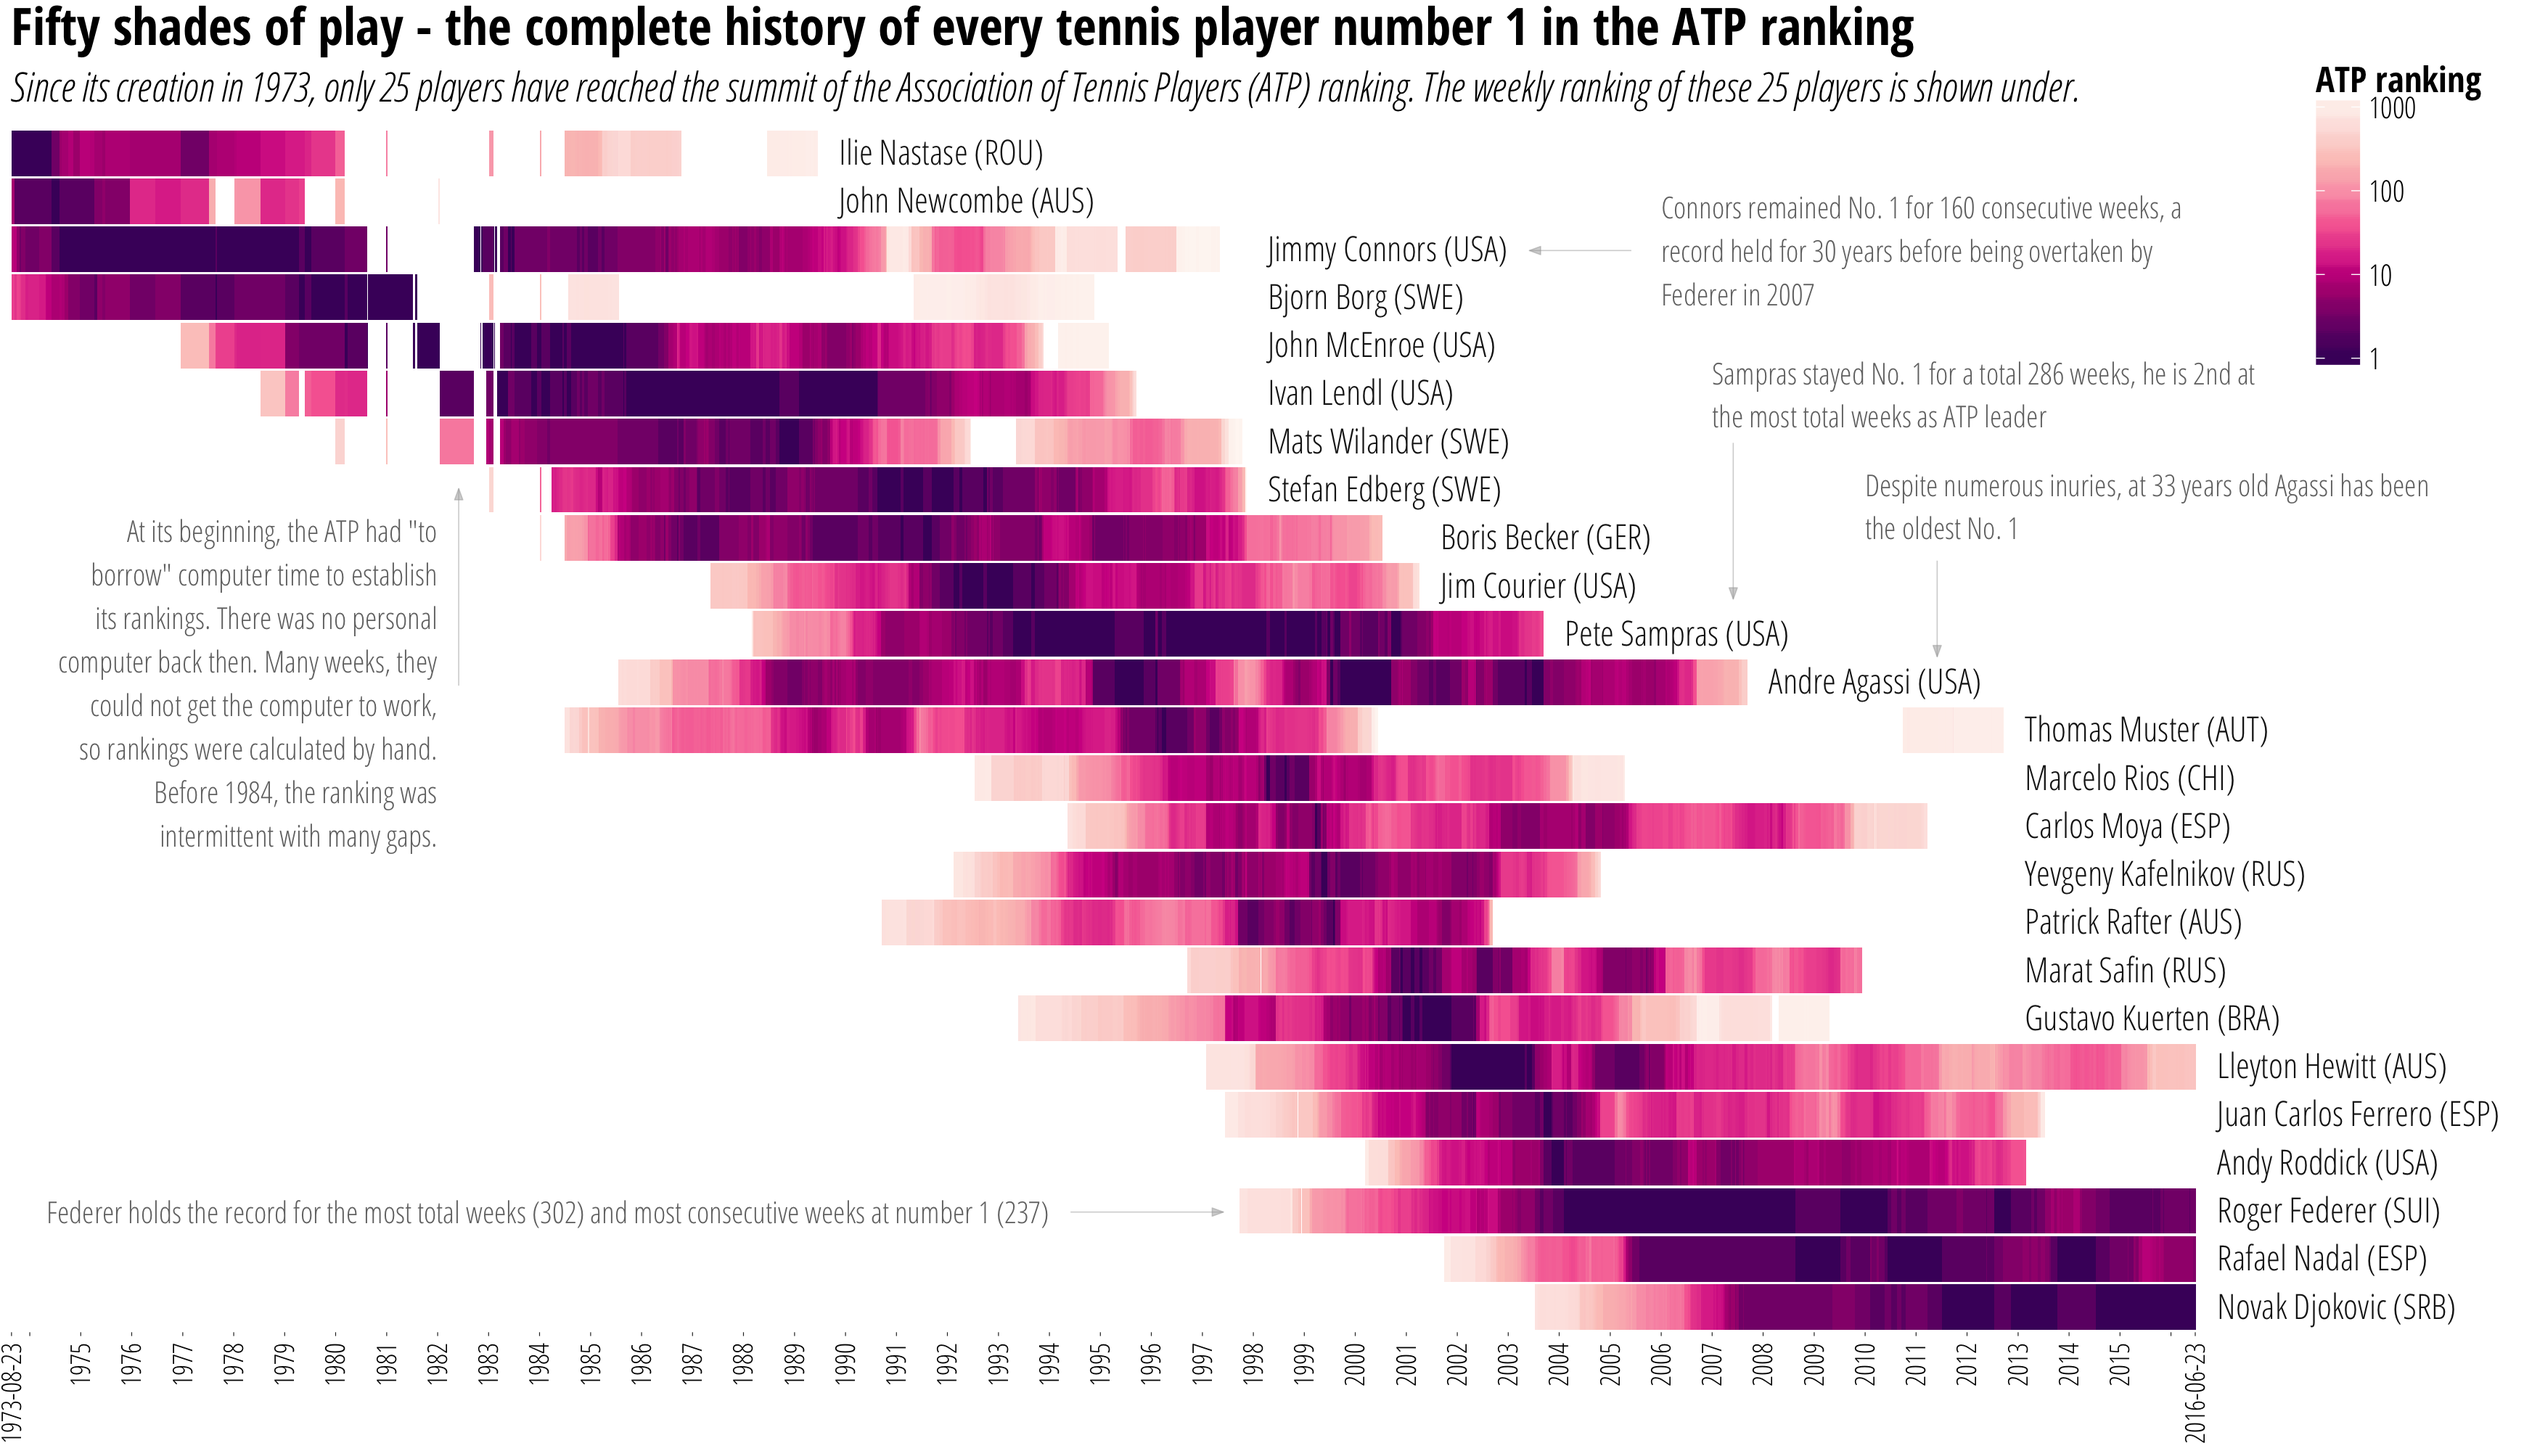
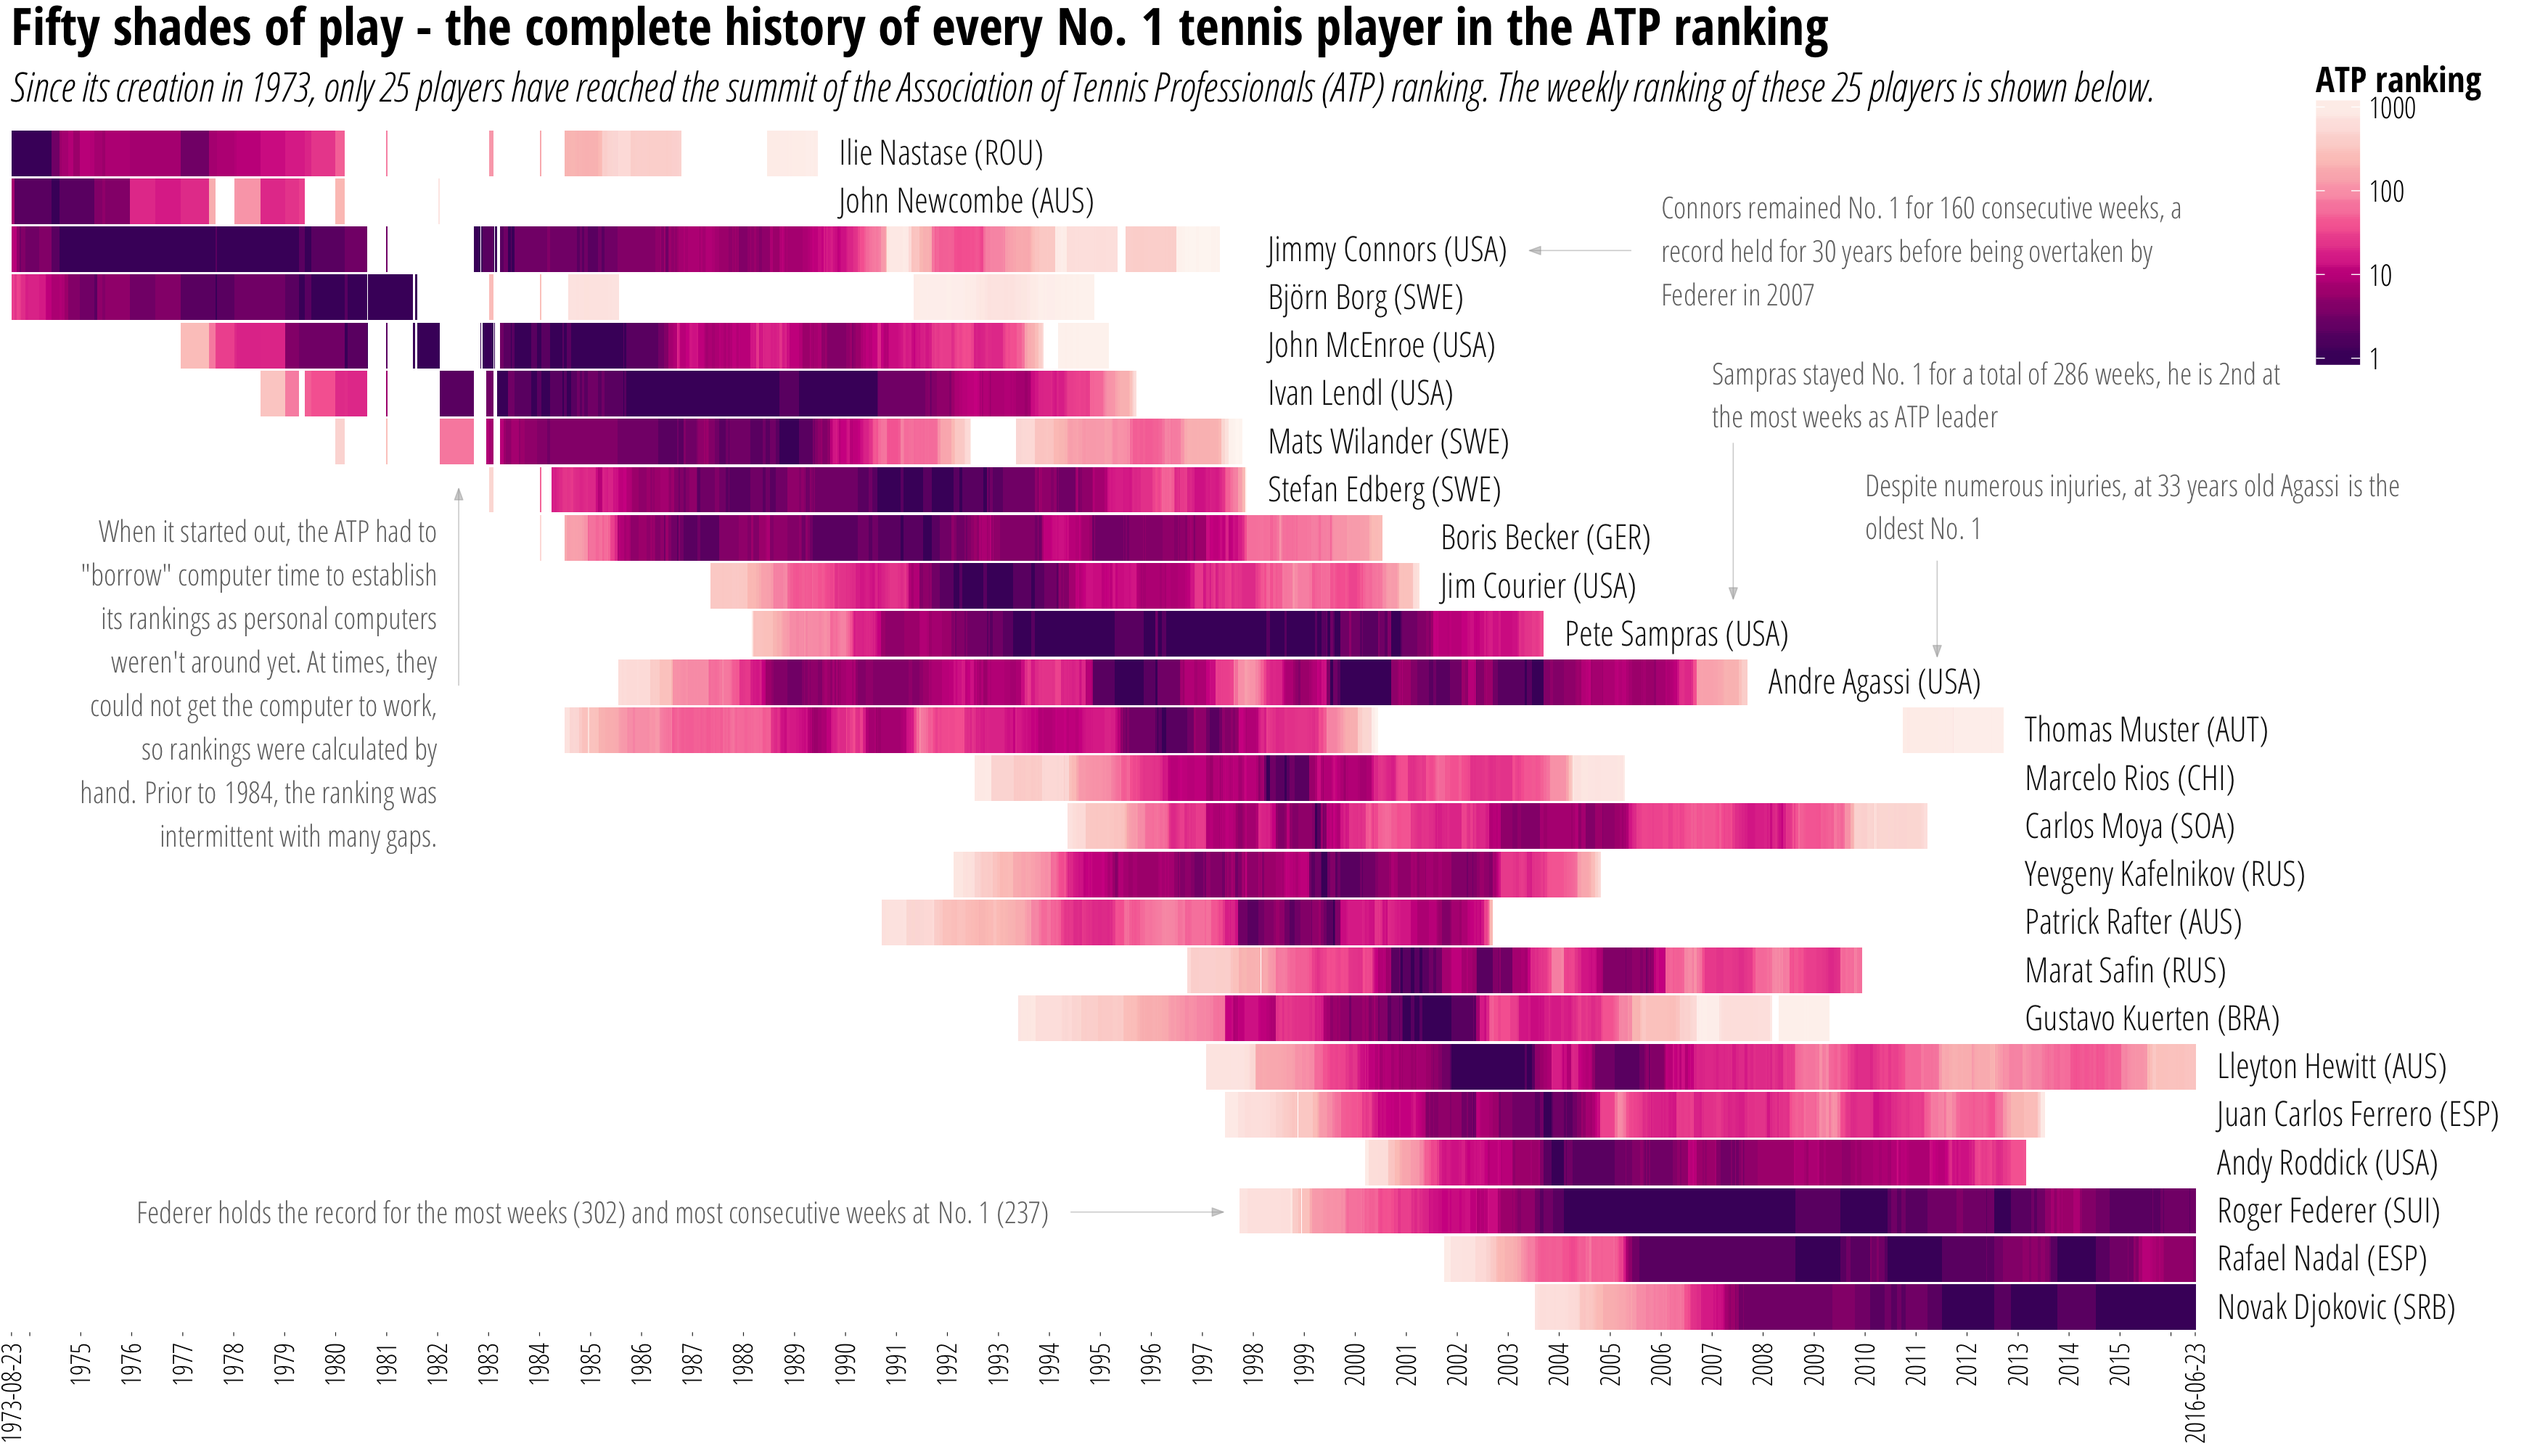
Heatmap code even more messy and with more parameters to deal with various languages quirks

diff --git a/02_plot_heatmap_n1ATP.html b/02_plot_heatmap_n1ATP.html
@@ -184,10 +184,10 @@ if(length(naidx)&gt;0) {
 </ul>
 <pre class="r"><code>## Helpers and settings
 
-htheme &lt;- function(base_family = &quot;OpenSans-CondensedLight&quot;) {
+htheme &lt;- function(base_family = &quot;OpenSans-CondensedLight&quot;, subtitle.size = 15) {
   swi_theme(y_gridlines = F, base_family = base_family) + 
     theme(
-      plot.subtitle = element_text(size=15, margin=margin(b = 10)),
+      plot.subtitle = element_text(size=subtitle.size, margin=margin(b = 10)),
       plot.title = element_text(size = 19, margin=margin(b = 10)),
       axis.ticks.length = unit(1.4, &quot;pt&quot;),
       axis.ticks.y = element_blank(),
@@ -237,7 +237,7 @@ player.lab.aligned$key &lt;- gsub(&quot; &quot;, &quot;\\.&quot;, player.lab.ali
 years &lt;- unique(format(unique(n1r$dates), &quot;%Y&quot;))
 
 ## PLOT ##
-lang &lt;- 'EN'
+lang &lt;- 'ZH'
 
 for (lang in colnames(txt)) {
   png.outfile &lt;- paste0(&quot;heatmap_alln1ATP_&quot;, lang, &quot;.png&quot;)
@@ -250,18 +250,16 @@ for (lang in colnames(txt)) {
   
   # apply linebreaks to each text chunk
   for(i in 1:nrow(anno)) {
-    anno[i, 'txt'] &lt;- paste0(
-      strwrap(anno[i, 'txt'], width = anno[i, 'lineLength']), collapse =&quot;\n&quot;
-    )
+    anno[i, 'txt'] &lt;- paste0(strwrap(anno[i, 'txt'], width = anno[i, 'lineLength']), collapse =&quot;\n&quot;)
   }
 
   hatp &lt;- ggplot(n1r) + 
     geom_rect(
       aes(xmin = dates, xmax = dates.end, ymin = ymin, ymax = ymax, fill = lrank)) + 
-   htheme(base_family = txt[&quot;base.typeface&quot;, lang]) +
+   htheme(base_family = txt[&quot;base.typeface&quot;, lang], subtitle.size = as.numeric(txt['subtitle.size', lang])) +
     # to overwrite colour label scale legend
     scale_fill_gradientn(
-      name = &quot;ATP ranking&quot;,
+      name = txt[&quot;legend.title&quot;, lang],
       colours = rev(colorRampPalette(brewer.pal(9,&quot;RdPu&quot;))(255)),
       na.value = &quot;transparent&quot;,
       labels = as.character(c(10^0, 10^1, 10^2, 10^3))
@@ -279,7 +277,7 @@ for (lang in colnames(txt)) {
       aes(x = x, y = y, label = player), 
       hjust = 0, vjust = 0.5,
       family = txt[&quot;base.typeface&quot;, lang],
-      size = 4.5, color=&quot;#1a1a1a&quot;) +
+      size = as.numeric(txt['player.size', lang]), color=&quot;#1a1a1a&quot;) +
     labs(title = txt[&quot;main.title&quot;, lang], subtitle = txt[&quot;descr&quot;, lang]) +
     theme(
       plot.title = element_text(family = txt[&quot;title.typeface&quot;, lang]),
@@ -296,7 +294,7 @@ for (lang in colnames(txt)) {
   hatp2 &lt;- hatp + geom_text(
     data = anno, 
     aes(x = x, y = y, label = txt, hjust = hjust, vjust = vjust),
-    family = txt[&quot;base.typeface&quot;, lang], size = 3.9, color=&quot;#737373&quot;
+    family = txt[&quot;base.typeface&quot;, lang], size = as.numeric(txt['annot.size', lang]), color=&quot;#737373&quot;
   ) + geom_segment(
     data = anno, 
     aes(x = x0, xend = x1, y = y0, yend = y1),

diff --git a/heatmap_alln1ATP_ZH.html b/heatmap_alln1ATP_ZH.html
@@ -1,0 +1,106 @@
+<!DOCTYPE html>
+<html>
+<head>
+<meta charset="utf-8"/>
+
+  <link href='https://fonts.googleapis.com/css?family=Open+Sans+Condensed:300&subset=latin,cyrillic' rel='stylesheet' type='text/css'>
+<link href='https://fonts.googleapis.com/css?family=Open+Sans:400,300,600,700,800,400italic&subset=latin,cyrillic' rel='stylesheet' type='text/css'>
+<style>
+
+body, h1, h2, h3, h4, h5, h6, .descr, td, table {
+   text-rendering: optimizeLegibility;
+   font-smoothing: antialiased;
+   font-family: 'Open Sans', sans-serif;
+   background-color: white;
+   font-size: 12px;
+   margin:3px 4px 3px 5px;
+}
+
+img {
+	max-width: 100%;
+	height: auto;
+}
+
+
+#cite {
+    font-size: 0.7em; color: #B8B8B8; text-align: right; margin-top:1px; margin-right:15px; padding-bottom: 3px;
+}
+#cite a { text-decoration: none; color: #821122; }
+
+#footer {
+  font-size: 0.8em; 
+  color: #9B9B9B; 
+  padding: 0px;
+  margin-left:3%;    
+  margin-bottom:8px; 
+  max-width:80%;    
+}
+    
+.descr {
+ font-size: 0.9em;
+ color: #4d4d4d;
+ font-weight: lighter;
+ max-width:80%;
+ margin-left:3%;
+}
+
+h1 {
+   font-size:2em;
+}
+
+h2 {
+   font-size:1.65em;
+   line-height: 105%;
+   font-weight: lighter;
+   max-width:80%;
+   margin-left:3%;
+}
+
+h3 {
+   font-size:1.2em;
+   margin-left:3%;   
+   font-weight: bold;    
+}
+
+h4 {
+   font-size:1.1em;
+}
+
+h5 {
+   font-size:0.9em;
+}
+
+h6 {
+   font-size:0.8em;
+}
+
+
+a:visited {
+   color: rgb(50%, 0%, 50%);
+}
+
+
+body {
+      font-size:10pt;
+      max-width:100%;
+   }
+
+   a, a:visited {
+      text-decoration: underline;
+   }
+}
+
+</style>
+</head>
+<body style="background-color:white;">
+<html>
+  <body>
+    <div class="graphic">
+      <img src="heatmap_alln1ATP_ZH.png" width="100%"/>
+    </div>
+    <div id="cite">来源: <a href="http://www.atpworldtour.com" target="_blank">ATP世界巡回赛</a> | <a href="http://www.swissinfo.ch" target="_blank">swissinfo.ch</a> | <a href="https://twitter.com/duc_qn" target="_blank">Duc-Quang Nguyen</a></div>
+    <script type="text/javascript" src="https://www.swissinfo.ch/static/Themes/basic/js/vendor/iframeResizer.contentWindow.3.5.3.min.js"></script>
+  </body>
+</html>
+</body>
+</html>
